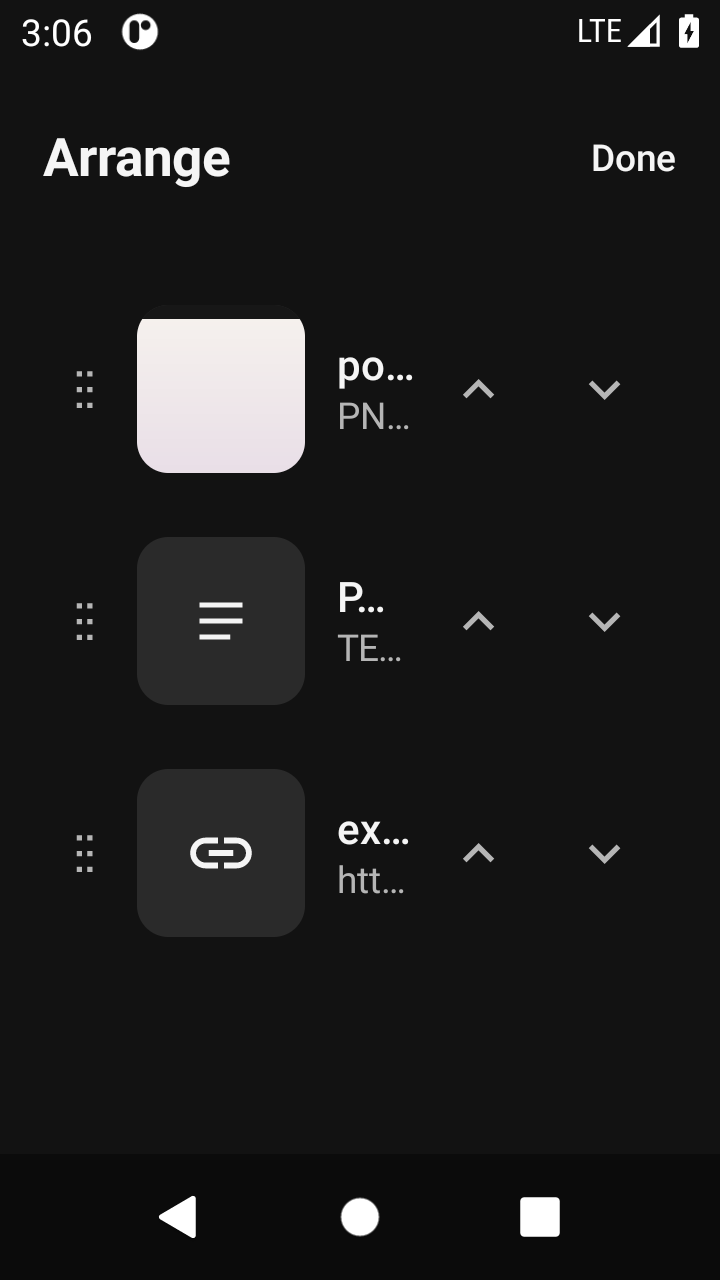
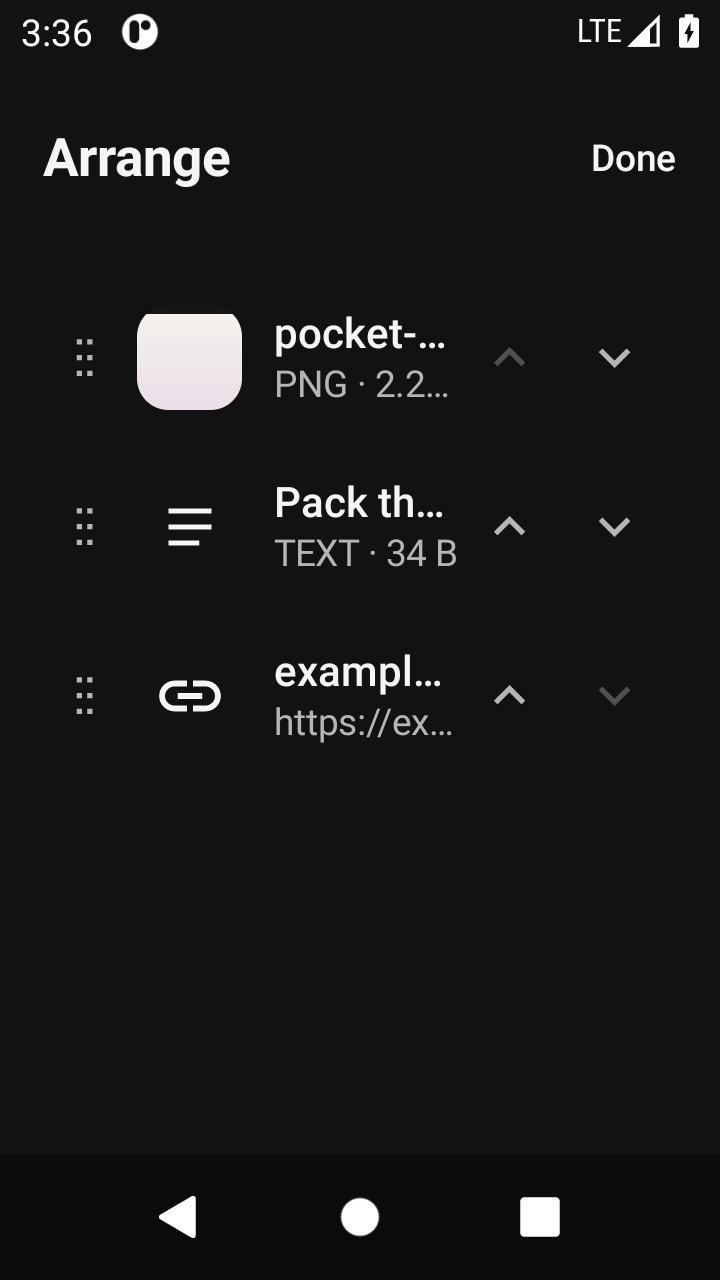
Recapture L/D chrome-gate stills after §12 deltas.
Also let arrange pass a 40 dp thumb so titles stay readable.

diff --git a/app/src/main/java/com/shobhankarthish/pocket/ui/shelf/ItemThumb.kt b/app/src/main/java/com/shobhankarthish/pocket/ui/shelf/ItemThumb.kt
@@ -41,7 +41,7 @@ fun ItemThumb(
     file: File,
     modifier: Modifier = Modifier,
 ) {
-    val slot = Modifier.size(Slot).then(modifier)
+    val slot = modifier.size(Slot)
     when (item.kind) {
         ItemKind.IMAGE -> {
             val bitmap by produceState<Bitmap?>(initialValue = null, item.id) {

diff --git a/docs/demo/CAPTURE.md b/docs/demo/CAPTURE.md
@@ -8,27 +8,27 @@ Ink **PASS 2026-09-09**. Astra redesign freeze §12 (`docs/ASTRA-REDESIGN-v1.md`
 
 | File | What it shows |
 | --- | --- |
-| `empty-light.png` | Empty shelf, light, no mark, left-aligned copy, docked **Add** 136×48 r12, **How to add** ≥48. Header title only (no count, no header Add). |
+| `empty-light.png` | Empty shelf, light, no mark, copy at top, docked **Add items** 136×48 r12 + **How to add** at the bottom |
 | `empty-dark.png` | Same empty chrome, dark |
 | `populated-light.png` | Three unboxed rows (PNG + text + link), header **Pocket Shelf** + **3 items** inside the 72 dp bar, header text **Add**, no FAB |
-| `populated-dark.png` | Same list, dark |
+| `populated-dark.png` | Same list, dark (header Add + count + unboxed rows) |
 | `text-link-light.png` | Same three-item unboxed list (text + link with PNG), light |
 | `text-link-dark.png` | Same three-item list, dark |
-| `selection-light.png` | **2 selected**, Close + Select all, tonal fill + 2 dp r12 outline + check on selected rows, unboxed unselected row, bottom **Share · Remove**, Add hidden |
+| `selection-light.png` | **2 selected**, Close + Select all, tonal fill + 2 dp r12 outline + **24 dp circle** check, bottom **Share · Remove**, Add hidden |
 | `selection-dark.png` | Same selection, dark |
-| `arrange-light.png` | Arrange + Done, drag handles **and** Move up / Move down, Add hidden |
+| `arrange-light.png` | Arrange + Done, drag handles **and** Move up / Move down, titles readable, Add hidden |
 | `arrange-dark.png` | Same arrange, dark |
 | `detail-image-light.png` | Image detail, 72 dp Close + title, **Share · Remove** |
 | `detail-image-dark.png` | Same image detail, dark |
 | `detail-text-light.png` | Text detail, full note, **Copy · Share** |
 | `detail-text-dark.png` | Same text detail, dark |
-| `detail-link-light.png` | Link detail, hostname + URL, **Open · Copy · Share** |
+| `detail-link-light.png` | Link detail, hostname + URL, bottom **Open link · Copy · Share** |
 | `detail-link-dark.png` | Same link detail, dark |
-| `add-sheet-light.png` | Quiet Add sheet: **Image or PDF** / **Text or a link**, no grabber |
+| `add-sheet-light.png` | Add sheet headed **Add items**: **Choose files** / **Add text** |
 | `add-sheet-dark.png` | Same Add sheet, dark |
-| `mixed-share-choice-light.png` | **2 selected** (PNG + text) with **Share files (1) · Share text (1) · Copy text** |
-| `mixed-share-choice-dark.png` | Same mixed share choice, dark |
-| `settings-light.png` | Settings: Close + title, Appearance follows system, How to add, Version 0.1.0 |
+| `mixed-share-choice-light.png` | Material sheet: **Share selected items**, body, then **Share files (1)** / **Share text (1)** / **Copy text** rows |
+| `mixed-share-choice-dark.png` | Same mixed share, dark |
+| `settings-light.png` | Settings: Appearance System/Light/Dark, Haptics, Storage + Clear shelf, Privacy |
 | `settings-dark.png` | Same settings, dark |
 | `add-list-share-remove.mp4` | Earlier picker add / share / remove take (elevation B chrome; not recaptured) |
 
@@ -43,9 +43,11 @@ Ink **PASS 2026-09-09**. Astra redesign freeze §12 (`docs/ASTRA-REDESIGN-v1.md`
 
 ## Astra §12 stills
 
-How to add was already dismissed (`how_to_add_seen`). The shelf for populated / selection / arrange / detail / mixed / add-sheet stills had a PNG (`pocket-demo.png` / `img1.png`), a text note (`Pack the bag. Do not forget socks.`), and the `example.com` link.
+Ink **PASS 2026-09-09** chrome-gate fix on Astra redesign freeze §12.
 
-Header browse: title 20/28, count inside the min-72 dp bar, text **Add**. Empty uses the docked Add, not the header Add. Resting rows have no card fill, radius, gap, or border. Selected rows get tonal `surfaceVariant` + 2 dp outline radius 12 + checkbox. Arrange keeps Move up / Move down. Motion was not changed (BRIEF table only).
+How to add was already dismissed. Populated / selection / arrange / detail / mixed / add-sheet stills used a PNG (`pocket-demo.png` / `img1.png`), a text note (`Pack the bag. Do not forget socks.`), and the `example.com` link.
+
+Header browse: title 20/28, count inside the min-72 dp bar, text **Add**. Empty docks **Add items** 136×48 r12 at the bottom with **How to add**, not under the copy. Resting rows are unboxed with bare glyph slots. Selected rows: tonal fill + 2 dp r12 outline + **24 dp circle** check. Arrange keeps Move up / Move down with readable titles. Add sheet: **Add items** / **Choose files** / **Add text**. Mixed share: Material sheet headed **Share selected items**. Settings: Appearance System/Light/Dark, Haptics, Storage + Clear shelf, Privacy. Motion unchanged (BRIEF table only).
 
 Empty stills were taken after Select all → Remove (with Undo snackbar allowed to expire). Re-seed is not in git.
 
